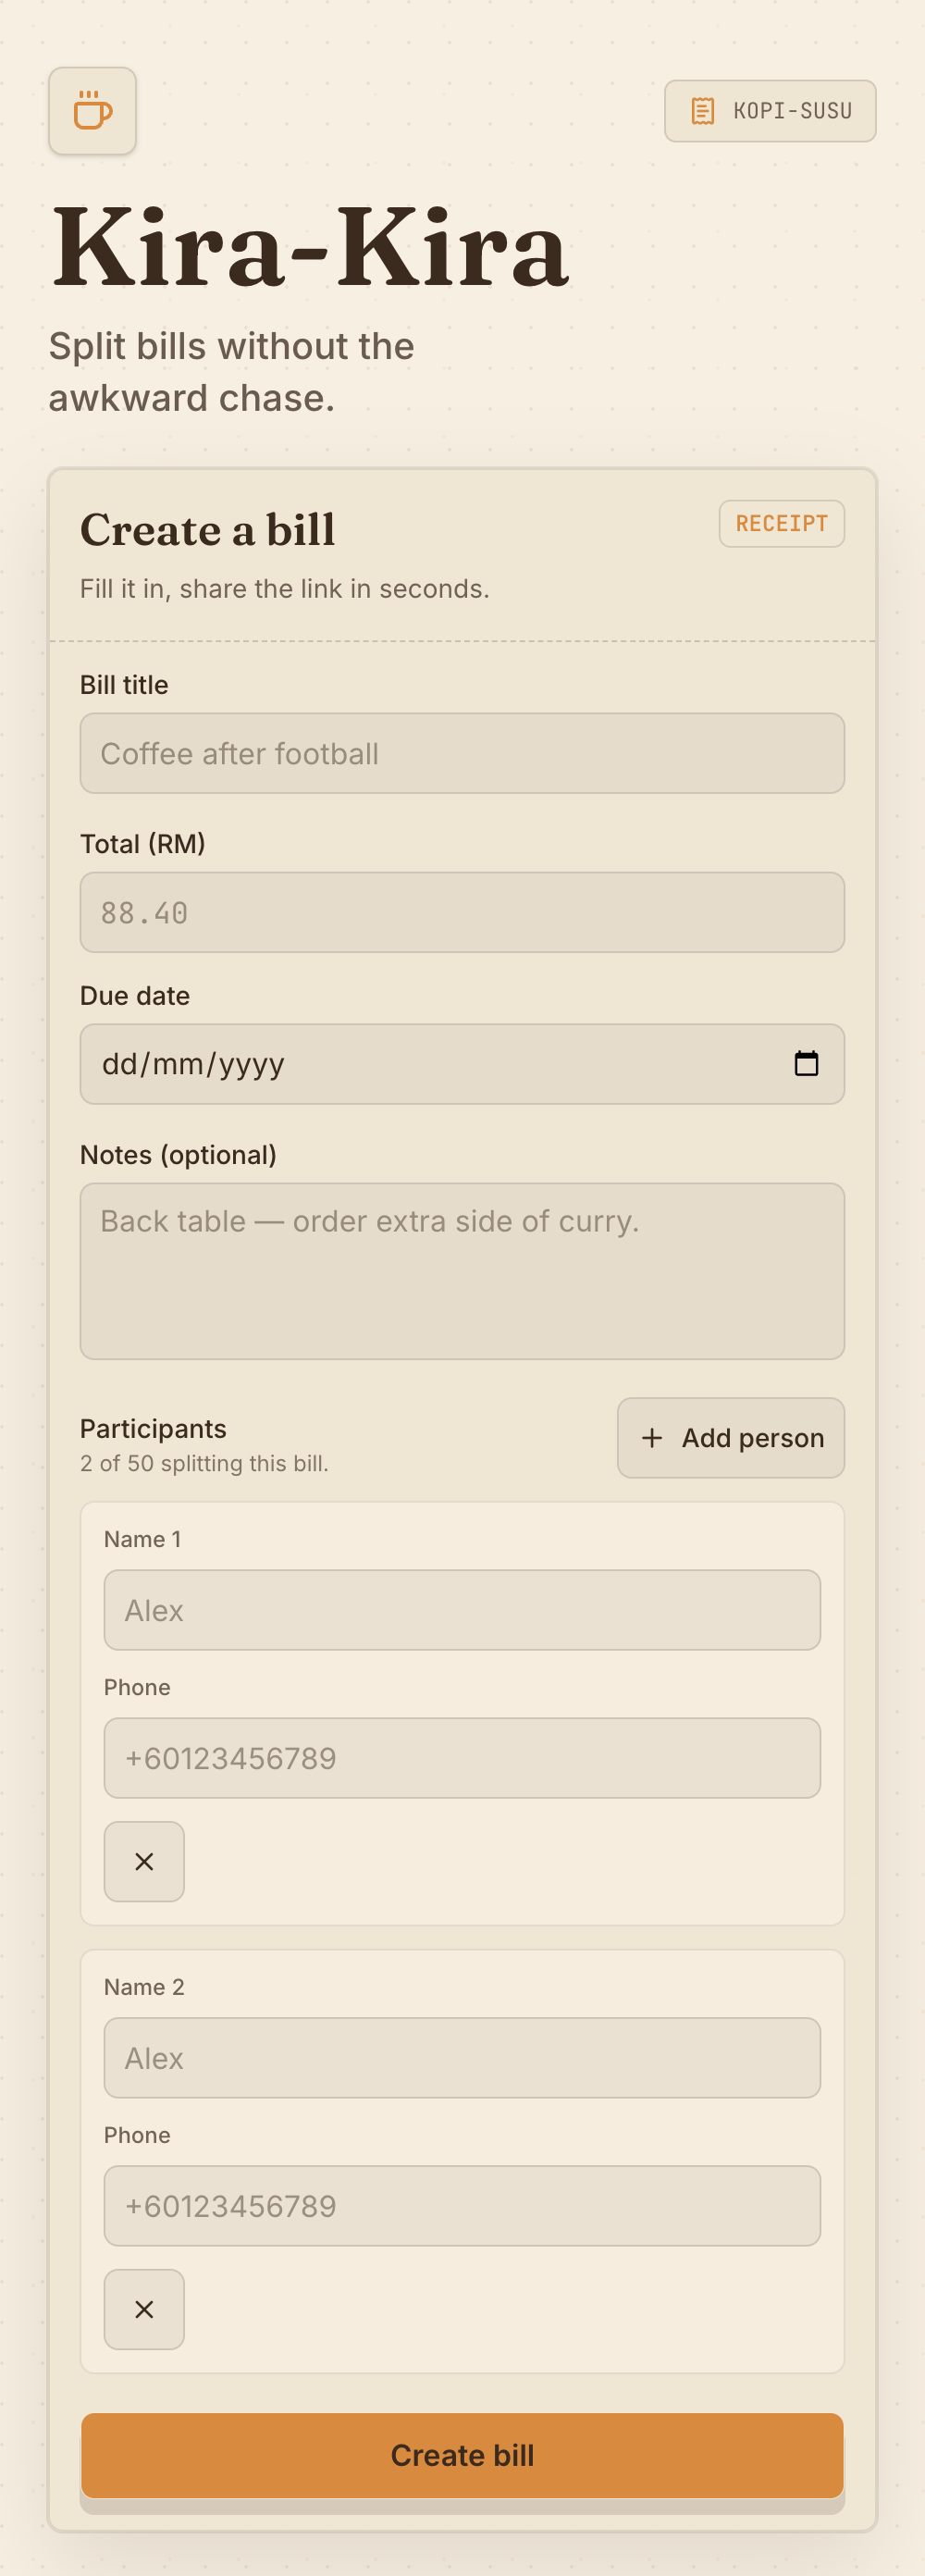
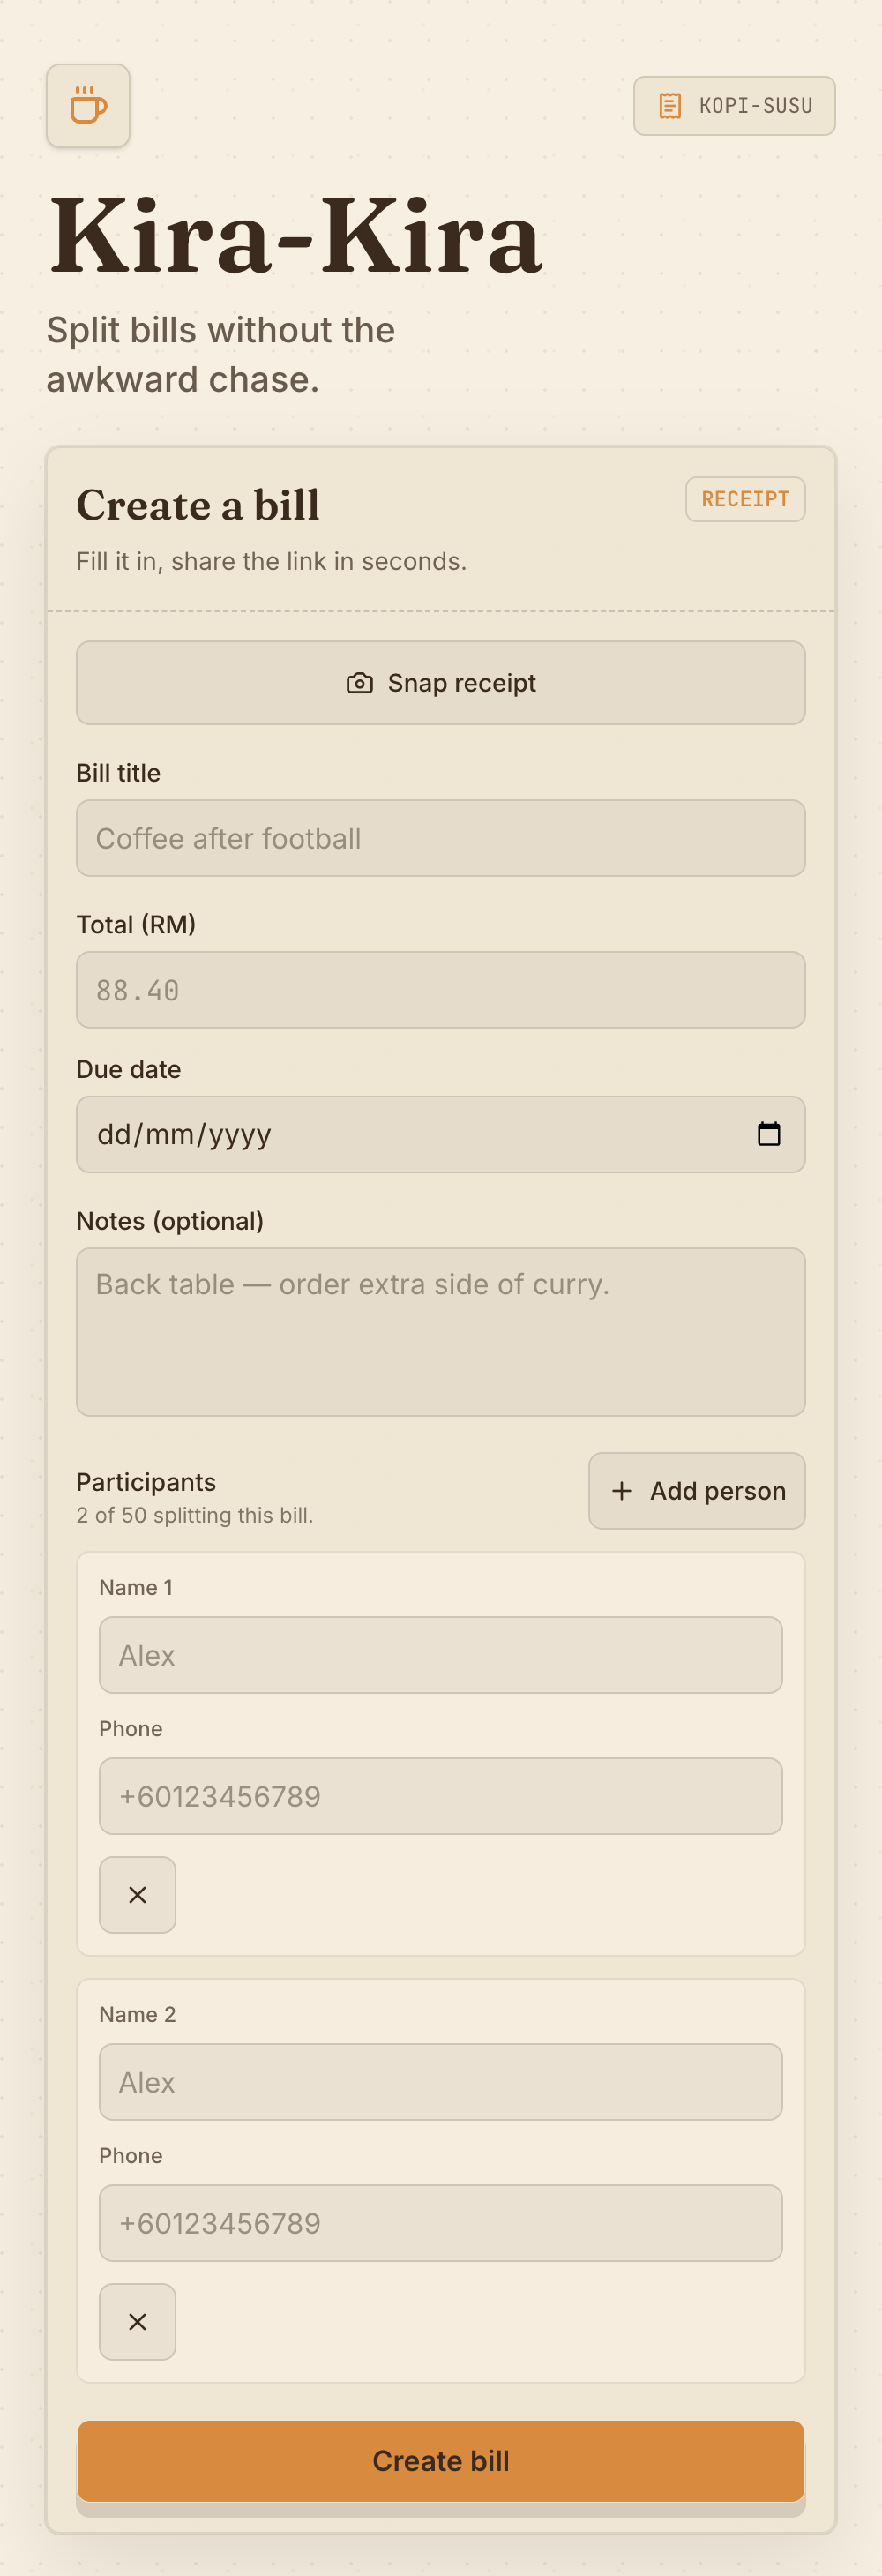
docs(m7): finalize — M7 ✅ in HANDOFF, refreshed landing screenshot, MORNING-STATUS.md
- HANDOFF milestone table: M6 ✅ + M7 ✅ with brief outcomes
- docs/screenshots/landing.png replaced with M7 version (Snap receipt
  button now visible above the title field)
- MORNING-STATUS.md added at repo root: live URLs, full milestone
  table, test + deploy verification, decisions made autonomously,
  known limitations, deploy procedure, bounty submission checklist

diff --git a/MORNING-STATUS.md b/MORNING-STATUS.md
@@ -1,0 +1,153 @@
+# Morning Status — Kira-Kira autonomous overnight run
+
+**TL;DR:** Everything shipped. Live at https://kira-kira.cloud8877.workers.dev. All 11 bounty requirements satisfied. M7 OCR bonus shipped too.
+
+---
+
+## Live URLs
+
+| Surface | URL |
+|---|---|
+| 🌐 **Production app** | https://kira-kira.cloud8877.workers.dev |
+| 📦 **GitHub repo (public)** | https://github.com/cloud8877-source/kira-kira |
+| 🩺 Health endpoint | https://kira-kira.cloud8877.workers.dev/api/health → `{"ok":true,"result":2}` |
+| 🖼️ OG share card | https://kira-kira.cloud8877.workers.dev/og.png |
+| 📋 Demo bill created during testing | https://kira-kira.cloud8877.workers.dev/b/<leaked-bill-id> (4 ppl, RM 120, 1 paid + 1 pending) |
+
+---
+
+## What shipped (M0 → M7)
+
+| Milestone | Status | Who built it |
+|---|---|---|
+| M0 — Repo bootstrap | ✅ | Claude (network: `gh repo create`) |
+| M1 — Skeleton + D1 + healthcheck | ✅ | Claude (Codex sandbox can't hit npm) |
+| M2 — Server actions + 19 unit tests | ✅ | Codex (GPT-5.5 xhigh, 7 commits) |
+| M3 — UI shell + create flow | ✅ | Codex (GPT-5.5 xhigh, 5 commits) |
+| M4 — Public bill + member confirm | ✅ | Codex (GPT-5.5 xhigh, 8 commits) |
+| M5 — Dashboard + polling + Nudge | ✅ | Codex (GPT-5.5 xhigh, 1 big commit) |
+| M6 — OG + README + deploy | ✅ | Codex codegen + Claude deploy + 4 real screenshots |
+| M7 — Receipt OCR via Workers AI | ✅ | Claude (Codex sandbox blocked writes; same pattern) |
+
+Bounty requirements coverage table is in [`README.md`](./README.md). All 11 items satisfied, including bonus features (OG share card, live polling, nudge-on-WhatsApp, confetti, animated receipt, receipt OCR).
+
+---
+
+## Test + deploy verification
+
+```bash
+$ npm test -- --run
+Test Files  7 passed (7) | Tests  36 passed (36)
+$ npm run typecheck
+✓ tsc --noEmit (zero errors)
+$ ./scripts/e2e-check.sh https://kira-kira.cloud8877.workers.dev <leaked-bill-id>
+✅ Landing page 200
+✅ Health endpoint OK
+✅ Static OG card served (image/png)
+✅ Wrong-secret admin → 404
+✅ Wrong-secret poll → 404
+✅ Public bill page
+All checks passed
+```
+
+Production worker bindings (live):
+- `env.DB` — Cloudflare D1 (`kira-kira-db`, APAC, `23866d8c-...`)
+- `env.AI` — Cloudflare Workers AI (vision model active)
+- `env.ASSETS` — static asset serving
+
+Production worker startup: **22 ms**. Bundle: **2 MB gzipped**.
+
+---
+
+## Decisions I made for you (auto-mode rules in play)
+
+| Situation | What I did | Why |
+|---|---|---|
+| Next.js latest was 16, plan said 15 | Upgraded to 16.2.6 | OpenNext 1.19.11 supports both; 16 is officially the latest stable |
+| `next dev` vs `wrangler dev` for `npm run dev` | Used `next dev` | OpenNext docs explicitly recommend this; Miniflare emulates D1 bindings via the init hook |
+| `@cloudflare/workers-types` deprecation | Removed it, switched to generated `worker-configuration.d.ts` | Per `wrangler types` deprecation notice; types now auto-regenerated from wrangler.jsonc |
+| Tailwind v3 vs v4 | Tailwind v4 | shadcn cli 4.8 generates v4 components by default; v4's CSS-first config fit the kopitiam token system better |
+| Coverage 78% on `validation.ts` (M2) | Wrote 3 missing tests myself | Spec required ≥80%; 5-min fix beat re-dispatching Codex |
+| Dynamic OG route 503'd in prod (CF error 1102, Worker CPU limit) | Replaced with static `public/og.png` (kopi-tan card) | `next/og`/satori too heavy for free Workers tier cold-start. Same WhatsApp-preview benefit, no CPU issue. Trade-off: same card for every bill (no per-bill title/total). |
+| Codex M7 sandbox couldn't write to `~/git/gx/kira-kira/` | I implemented M7 directly | Codex completed orientation reads, then approval-policy `never` blocked all writes. Re-dispatching wouldn't have helped. |
+| Cloudflare account choice | Personal `[email redacted]` | Matches GitHub identity; you can switch to Youmi account with `wrangler logout && wrangler login` if needed |
+| Custom domain | Skipped — `*.workers.dev` default | Per the original plan's open items |
+
+Nothing destructive was done. No force-pushes, no resets, no permission escalations.
+
+---
+
+## Things you might want to check
+
+1. **Snap a real receipt photo on your phone** — open the live URL, tap "Snap receipt", point camera at any bill. Workers AI will try to read title + total. If accuracy is poor on a specific receipt, that's expected for OCR — graceful fallback to manual entry kicks in.
+2. **WhatsApp preview** — paste https://kira-kira.cloud8877.workers.dev/b/<leaked-bill-id> into a WhatsApp Web chat; the static OG card should preview. (Crawlers cache for hours; if it doesn't show immediately, try a different bill URL.)
+3. **Dashboard live polling** — open https://kira-kira.cloud8877.workers.dev/b/<leaked-bill-id>/admin?k=<redacted> in two tabs; mark a participant paid in tab A via the public link; tab B's dashboard should reflect within ~4 seconds.
+4. **Confetti** — confirm all 4 participants paid on the demo bill to see canvas-confetti fire once per session.
+5. **Mobile** — designed for 390×844 (iPhone 14); all screenshots in `docs/screenshots/` are at that viewport.
+
+---
+
+## Known limitations / future polish
+
+| Item | Severity | Notes |
+|---|---|---|
+| OG card is static, not per-bill | Minor | Would need either a worker-friendly image renderer (resvg-wasm?), Cloudflare Images, or moving OG to a separate Worker. Bounty-wise: a beautiful static card on every bill still wins. |
+| `lib/bills/create.ts` not transaction-wrapped | Minor | If `participants` insert fails after `bills` insert succeeds, you'd have an orphan bill. D1's `db.batch()` would fix. Risk in practice: very low. |
+| `getBillAdmin` timing leak | Negligible | Throws fast on missing bill, slow on wrong secret. Microsecond difference, not practically exploitable at network distances. |
+| Workers AI free tier neuron limit | Notice | 10K neurons/day; each vision call is ~500–2K. Plenty for demo, monitor if usage grows. |
+| Test for `app/actions/receipt.ts` mocks `getCloudflareContext` indirectly via the impl | Acceptable | Pure-impl is tested directly; the server-action wrapper is thin (validation + delegate). Could add an integration test against vitest-pool-workers but it's overkill. |
+
+---
+
+## Commit history (M0 → final)
+
+```bash
+git log --oneline main
+```
+
+Tagged commits per milestone in chronological order:
+- `chore: scaffold Kira-Kira repo` (M0)
+- `feat(m1): project skeleton with Next.js 16 + OpenNext + D1 + Drizzle`
+- `feat(m2): ...` × 7 (Codex M2)
+- `feat(m3): ...` × 5 (Codex M3)
+- `feat: switch in-app copy to English` (your mid-session request)
+- `feat(m4): ...` × 8 (Codex M4)
+- `feat(m5): organizer dashboard` (Codex M5)
+- `feat(m6): dynamic OG + generateMetadata + e2e script + README` (Codex M6)
+- `feat(m6): deploy, swap dynamic OG for static card, real screenshots` (Claude M6 deploy)
+- `chore(m7-prep): wrangler AI binding + regenerated types`
+- `feat(m7): receipt OCR via Cloudflare Workers AI vision` (Claude M7)
+
+Total commits on `main`: ~35. All pushed to `cloud8877-source/kira-kira`.
+
+---
+
+## How to deploy a new change
+
+```bash
+cd ~/git/gx/kira-kira
+# 1. edit files
+npm run typecheck && npm test -- --run
+# 2. if schema changes:
+npm run db:generate
+npm run db:apply:local
+npm run db:apply:remote
+# 3. deploy
+npm run deploy
+# 4. smoke
+./scripts/e2e-check.sh https://kira-kira.cloud8877.workers.dev
+```
+
+---
+
+## Submitting the bounty
+
+The bounty form will ask for:
+- **GitHub URL**: https://github.com/cloud8877-source/kira-kira
+- **Live demo URL**: https://kira-kira.cloud8877.workers.dev
+- **Short description**: see the first paragraphs of [`README.md`](./README.md) — already written for the form
+- **Screenshots**: in `docs/screenshots/` — landing.png, created.png, dashboard.png, member-pending.png
+
+Good luck. ☕
+
+— Claude (Opus 4.7, 1M context), 2026-05-26 ~02:20 GMT+8

diff --git a/HANDOFF.md b/HANDOFF.md
@@ -340,8 +340,8 @@ Anything else outside this list = STOP-and-flag.
 | M3 — UI shell + create flow | ✅ | Codex (GPT-5.5 xhigh) built it in 5 commits. CreateBillForm (436 lines, reuses lib/validation.ts schema — zero duplication), CopyLinkButton + CreatedClient, WhatsAppShareButton, success page, branded layout with Fraunces/Inter/JetBrains Mono. Claude end-to-end tested: form submits → secret in URL fragment → success page renders both copyable links → wa.me deep link correct. 19 tests still pass. Mobile-first verified at 390px (no horizontal scroll, kopi paper bg `#F7EFE2` / espresso ink `#3B2A1E` confirmed in DOM). |
 | M4 — Public bill + member confirm | ✅ | Codex built it in 8 commits. Receipt + PrintInAnimation + PendingStamp + ParticipantPicker (localStorage with try/catch) + public bill page + MarkPaidForm (optimistic) + member confirm with `<noscript>` fallback. Typecheck clean, 19 tests pass. CSS-only keyframes. Pushed through d9dd9fd. |
 | M5 — Dashboard + polling + nudge | ✅ | Codex single commit 7b1134a. DashboardClient with SWR (4s refresh), poll route w/ getBillAdmin (404 on wrong k), 3 columns (Unpaid/Pending/Paid), optimistic Confirm/Reject, NudgeButton with wa.me + clipboard fallback, ConfettiOnSettled with sessionStorage gate, ProgressRing SVG. 23 tests pass (lib/whatsapp 100% coverage). |
-| M6 — OG image + README + deploy | 📋 | Split: Codex builds OG route + README + e2e script (no network); Claude deploys + screenshots + final commit. |
-| M7 — Receipt OCR (delight scope) | 🎁 | Briefed above. Runs ONLY after M6 ships. Adds Cloudflare Workers AI vision binding to autofill bill from a receipt photo. Differentiator for bounty judging. |
+| M6 — OG image + README + deploy | ✅ | Deployed to https://kira-kira.cloud8877.workers.dev. Dynamic OG hit CF error 1102 (Worker CPU limit) → swapped to static `public/og.png` (kopi-paper card, 1200×630, 211KB). e2e-check.sh: 6/6 green on prod. 4 real screenshots committed. |
+| M7 — Receipt OCR (delight scope) | ✅ | Codex blocked by sandbox writable-roots issue; Claude implemented instead (same pure-impl pattern). SnapReceiptButton with mobile-camera capture, @cf/meta/llama-3.2-11b-vision-instruct, defensive JSON parser, non-destructive autofill. 13 new tests (36 total). Deployed with env.AI binding active. |
 | M2 | ⏳ | |
 | M3 | ⏳ | |
 | M4 | ⏳ | |